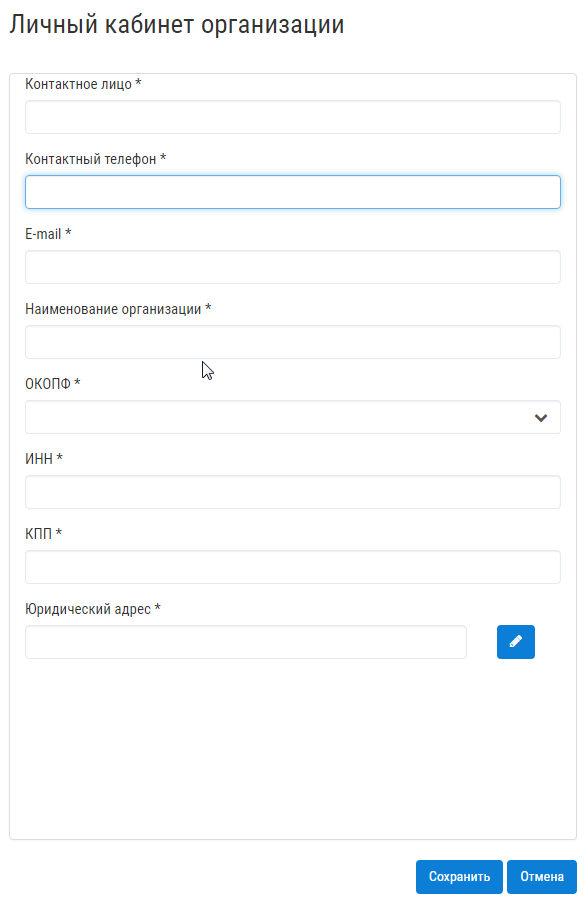
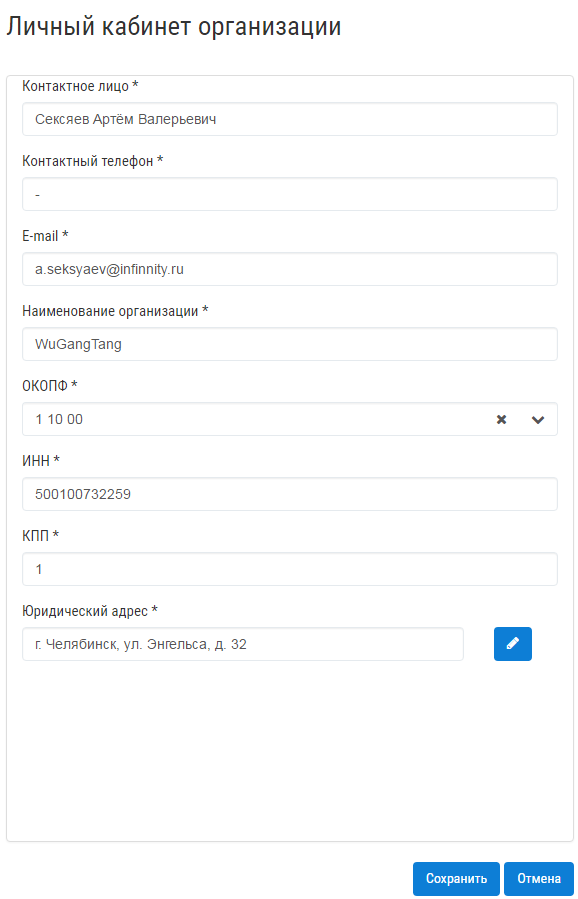
Обновление раздела 1. Исправлены неточности и картинки в подразделе 1.5

diff --git a/docs/source/01-beginning-of-work/1.5.rst b/docs/source/01-beginning-of-work/1.5.rst
@@ -1,40 +1,10 @@
 Личный кабинет 
 --------------
-Личный кабинет - это персональный раздел пользователя в системе «Управдом ЖКХ», в который содержит:
+Личный кабинет - это  раздел в системе «Управдом ЖКХ», предназначенный для получения данных о состоянии подписки и информации о задолженности.
 
-- общая информацию о пользователе;
+**Сведения об организации, заполненные при регистрации в системе «Управдом ЖКХ», будут использоваться для активации подписки (выставления счёта)** 
 
-- информацию о состоянии подписки;
-
-- информацию о задолженности.
-
-**Для работы в системе «Управдом ЖКХ» необходимо:** 
-
- 1. Нажать кнопку «Регистрация»
- 
-	.. image:: ../_images/01-beginning-of-work/9.png 
-	
- 2. Заполнить поля открывшейся формы сведениями об организации:
- 
-	
-	.. image:: ../_images/01-beginning-of-work/56.png
-	
-	
-	a. Для заполнения юридического адреса нажать кнопку «Редактирование».
-	
-	.. image:: ../_images/01-beginning-of-work/58.png
-	
-	b. Заполнить поля юридического адреса.
-	
-	.. image:: ../_images/01-beginning-of-work/59.png
-	
-	c. При отсутствии адреса в базе данных ФИАС отредактировать адрес самостоятельно.
-
-	.. image:: ../_images/01-beginning-of-work/60.png	
-	
- 3. Сохранить изменения.
-
-**Для редактирования общей информации необходимо:**
+**Для редактирования общей информации об организации в личном кабинете необходимо:**
 
  1. Нажать на профиль пользователя.
  
@@ -50,7 +20,20 @@
 	.. image:: ../_images/01-beginning-of-work/52.png
 	
  
- 4. Внести изменения в поля открывшейся формы сведениями об организации.
+ 4. Внести изменения в поля открывшейся формы сведениями об организации:
+ 
+	a. Для заполнения юридического адреса нажать кнопку «Редактирование».
+	
+	.. image:: ../_images/01-beginning-of-work/58.png
+	
+	b. Заполнить поля юридического адреса.
+	
+	.. image:: ../_images/01-beginning-of-work/59.png
+	
+	c. При отсутствии возможности изменения адреса с помощью полей отредактировать его самостоятельно.
+
+	.. image:: ../_images/01-beginning-of-work/60.png	
+	
  
  5. Сохранить изменения.
  
